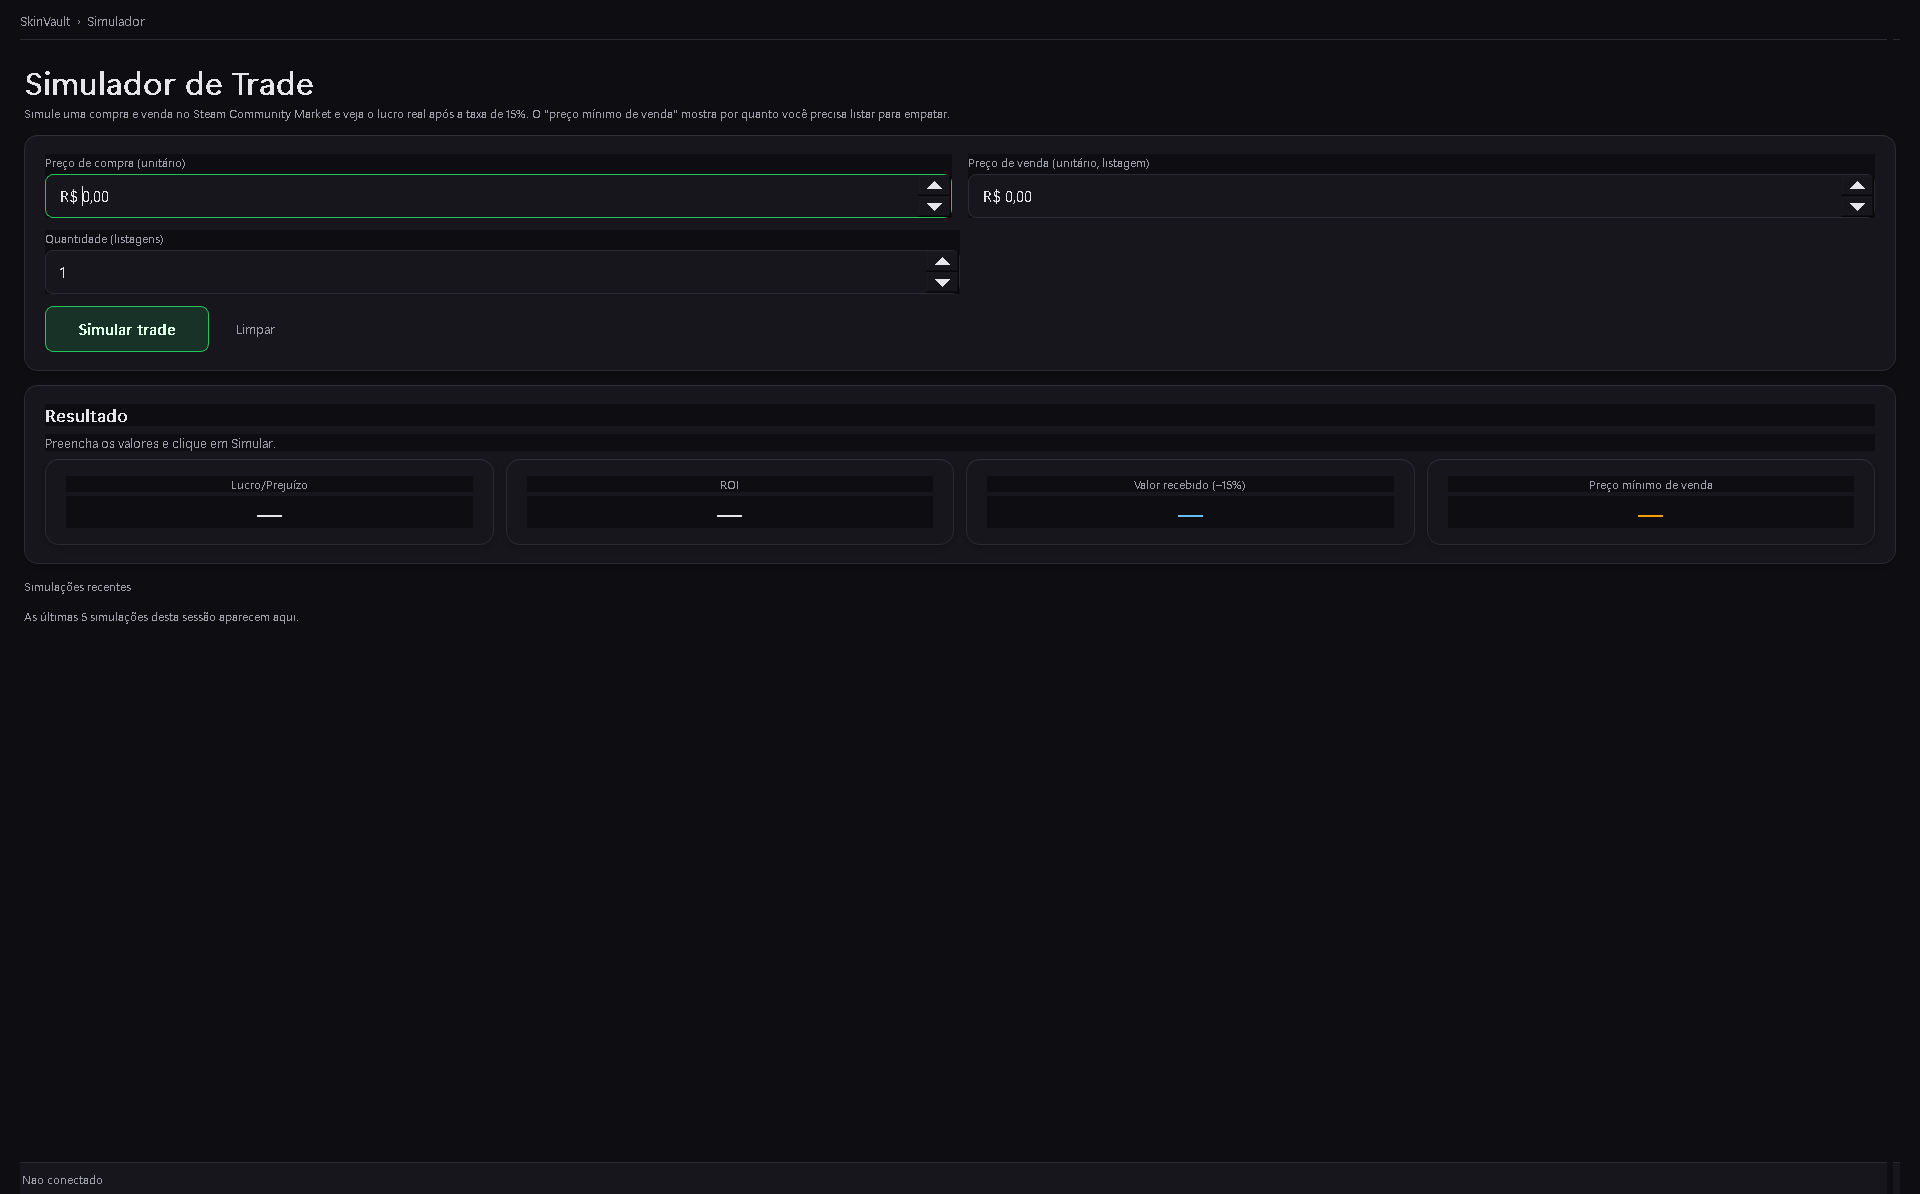
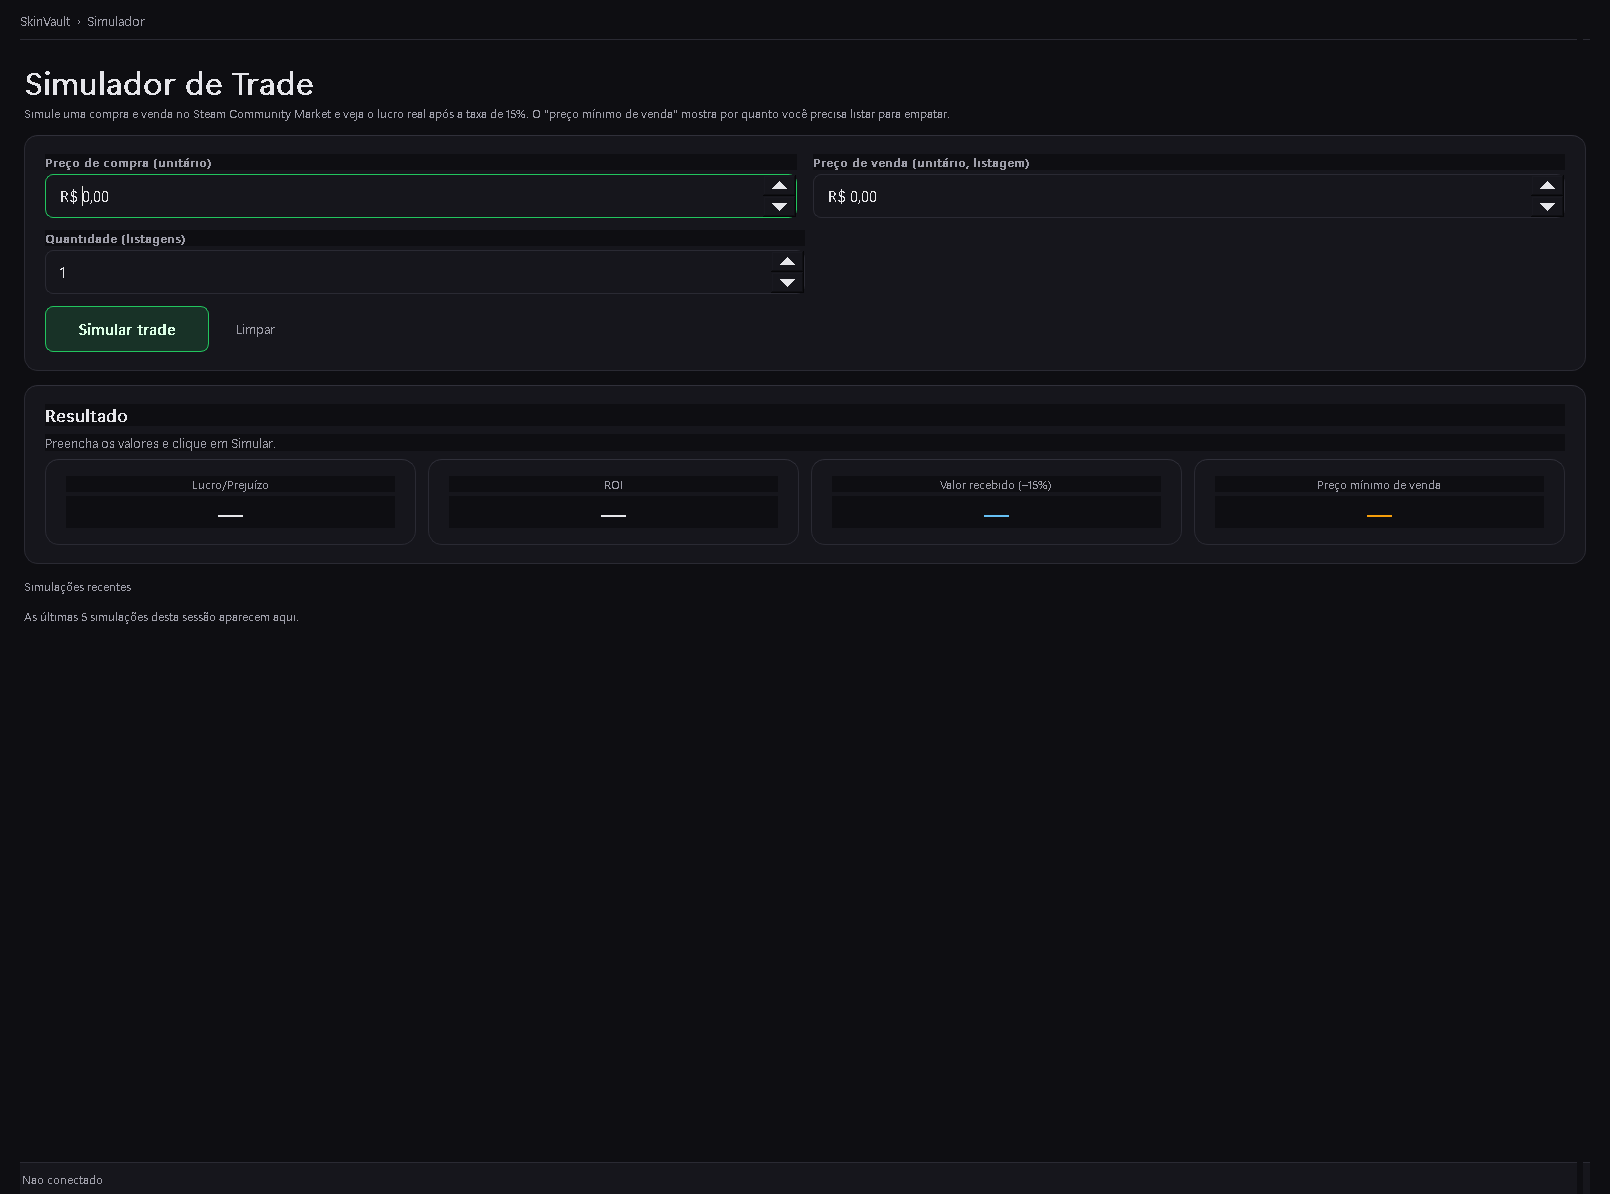
ui: simulador migra para FormRow + FormRow ganha tooltip opcional
- components.FormRow: aceita parametro tooltip="" opcional, aplica em
  label + field. Sinatura retrocompativel
- simulador_screen: remove helper _labeled local (16 LOC duplicadas);
  3 calls migram para FormRow(label, field, tooltip=...)
- Visual: labels ficam font-weight 600 (consistente com Trades e
  Watchlist que ja usavam FormRow)
- Simulador era o ultimo screen rolando seu proprio label-field helper

diff --git a/skinvault/ui/simulador_screen.py b/skinvault/ui/simulador_screen.py
@@ -19,7 +19,7 @@ from PyQt6.QtWidgets import (
 
 from skinvault import portfolio
 from skinvault.ui import theme as t
-from skinvault.ui.components import Card, SectionHeader, StatCard
+from skinvault.ui.components import Card, FormRow, SectionHeader, StatCard
 
 
 _HIST_CAP = 5
@@ -58,24 +58,6 @@ class SimuladorScreen(QWidget):
         self._history: list[dict] = []
         self._build()
 
-    def _labeled(self, text: str, w: QWidget,
-                 tooltip: str = "") -> QWidget:
-        wrap = QWidget()
-        lay = QVBoxLayout(wrap)
-        lay.setContentsMargins(0, 0, 0, 0)
-        lay.setSpacing(4)
-        lbl = QLabel(text)
-        lbl.setStyleSheet(
-            f"color: {t.TEXT_MUTED}; font-size: {t.FS_MUTED};"
-            f" font-family: {t.FONT_FAMILY};"
-        )
-        if tooltip:
-            lbl.setToolTip(tooltip)
-            w.setToolTip(tooltip)
-        lay.addWidget(lbl)
-        lay.addWidget(w)
-        return wrap
-
     def _build(self) -> None:
         root = QVBoxLayout(self)
         root.setContentsMargins(24, 20, 24, 20)
@@ -101,14 +83,14 @@ class SimuladorScreen(QWidget):
         self._buy_inp.setPrefix("R$ ")
         self._buy_inp.setRange(0, 9999999)
         self._buy_inp.setStyleSheet(t.input_style())
-        row1.addWidget(self._labeled(
+        row1.addWidget(FormRow(
             "Preço de compra (unitário)", self._buy_inp,
             tooltip="Quanto você paga por cada unidade ao comprar.",
         ))
         self._sell_inp.setPrefix("R$ ")
         self._sell_inp.setRange(0, 9999999)
         self._sell_inp.setStyleSheet(t.input_style())
-        row1.addWidget(self._labeled(
+        row1.addWidget(FormRow(
             "Preço de venda (unitário, listagem)", self._sell_inp,
             tooltip="Preço pelo qual você lista cada unidade.\nA Steam cobra "
                     "15% sobre este valor.",
@@ -120,7 +102,7 @@ class SimuladorScreen(QWidget):
         self._qty_inp.setMinimum(1)
         self._qty_inp.setMaximum(999)
         self._qty_inp.setStyleSheet(t.input_style())
-        row2.addWidget(self._labeled(
+        row2.addWidget(FormRow(
             "Quantidade (listagens)", self._qty_inp,
             tooltip="Cada unidade vira uma listagem separada. A taxa de 15% "
                     "aplica sobre cada listagem.",

diff --git a/skinvault/ui/components.py b/skinvault/ui/components.py
@@ -995,9 +995,13 @@ class Toolbar(QWidget):
 
 # ── FormRow ──────────────────────────────────────────────────
 class FormRow(QWidget):
-    """Label muted em cima, field embaixo. Espacamento consistente."""
+    """Label muted em cima, field embaixo. Espacamento consistente.
+
+    Se tooltip for fornecido, aplica em label + field (acessibilidade).
+    """
 
     def __init__(self, label: str, field: QWidget,
+                 tooltip: str = "",
                  parent: QWidget | None = None) -> None:
         super().__init__(parent)
         lay = QVBoxLayout(self)
@@ -1009,6 +1013,9 @@ class FormRow(QWidget):
             f"color: {t.TEXT_MUTED}; font-size: {t.FS_MUTED};"
             f" font-weight: 600; font-family: {t.FONT_FAMILY};"
         )
+        if tooltip:
+            self._lbl.setToolTip(tooltip)
+            field.setToolTip(tooltip)
         lay.addWidget(self._lbl)
         lay.addWidget(field)
         self._field = field
